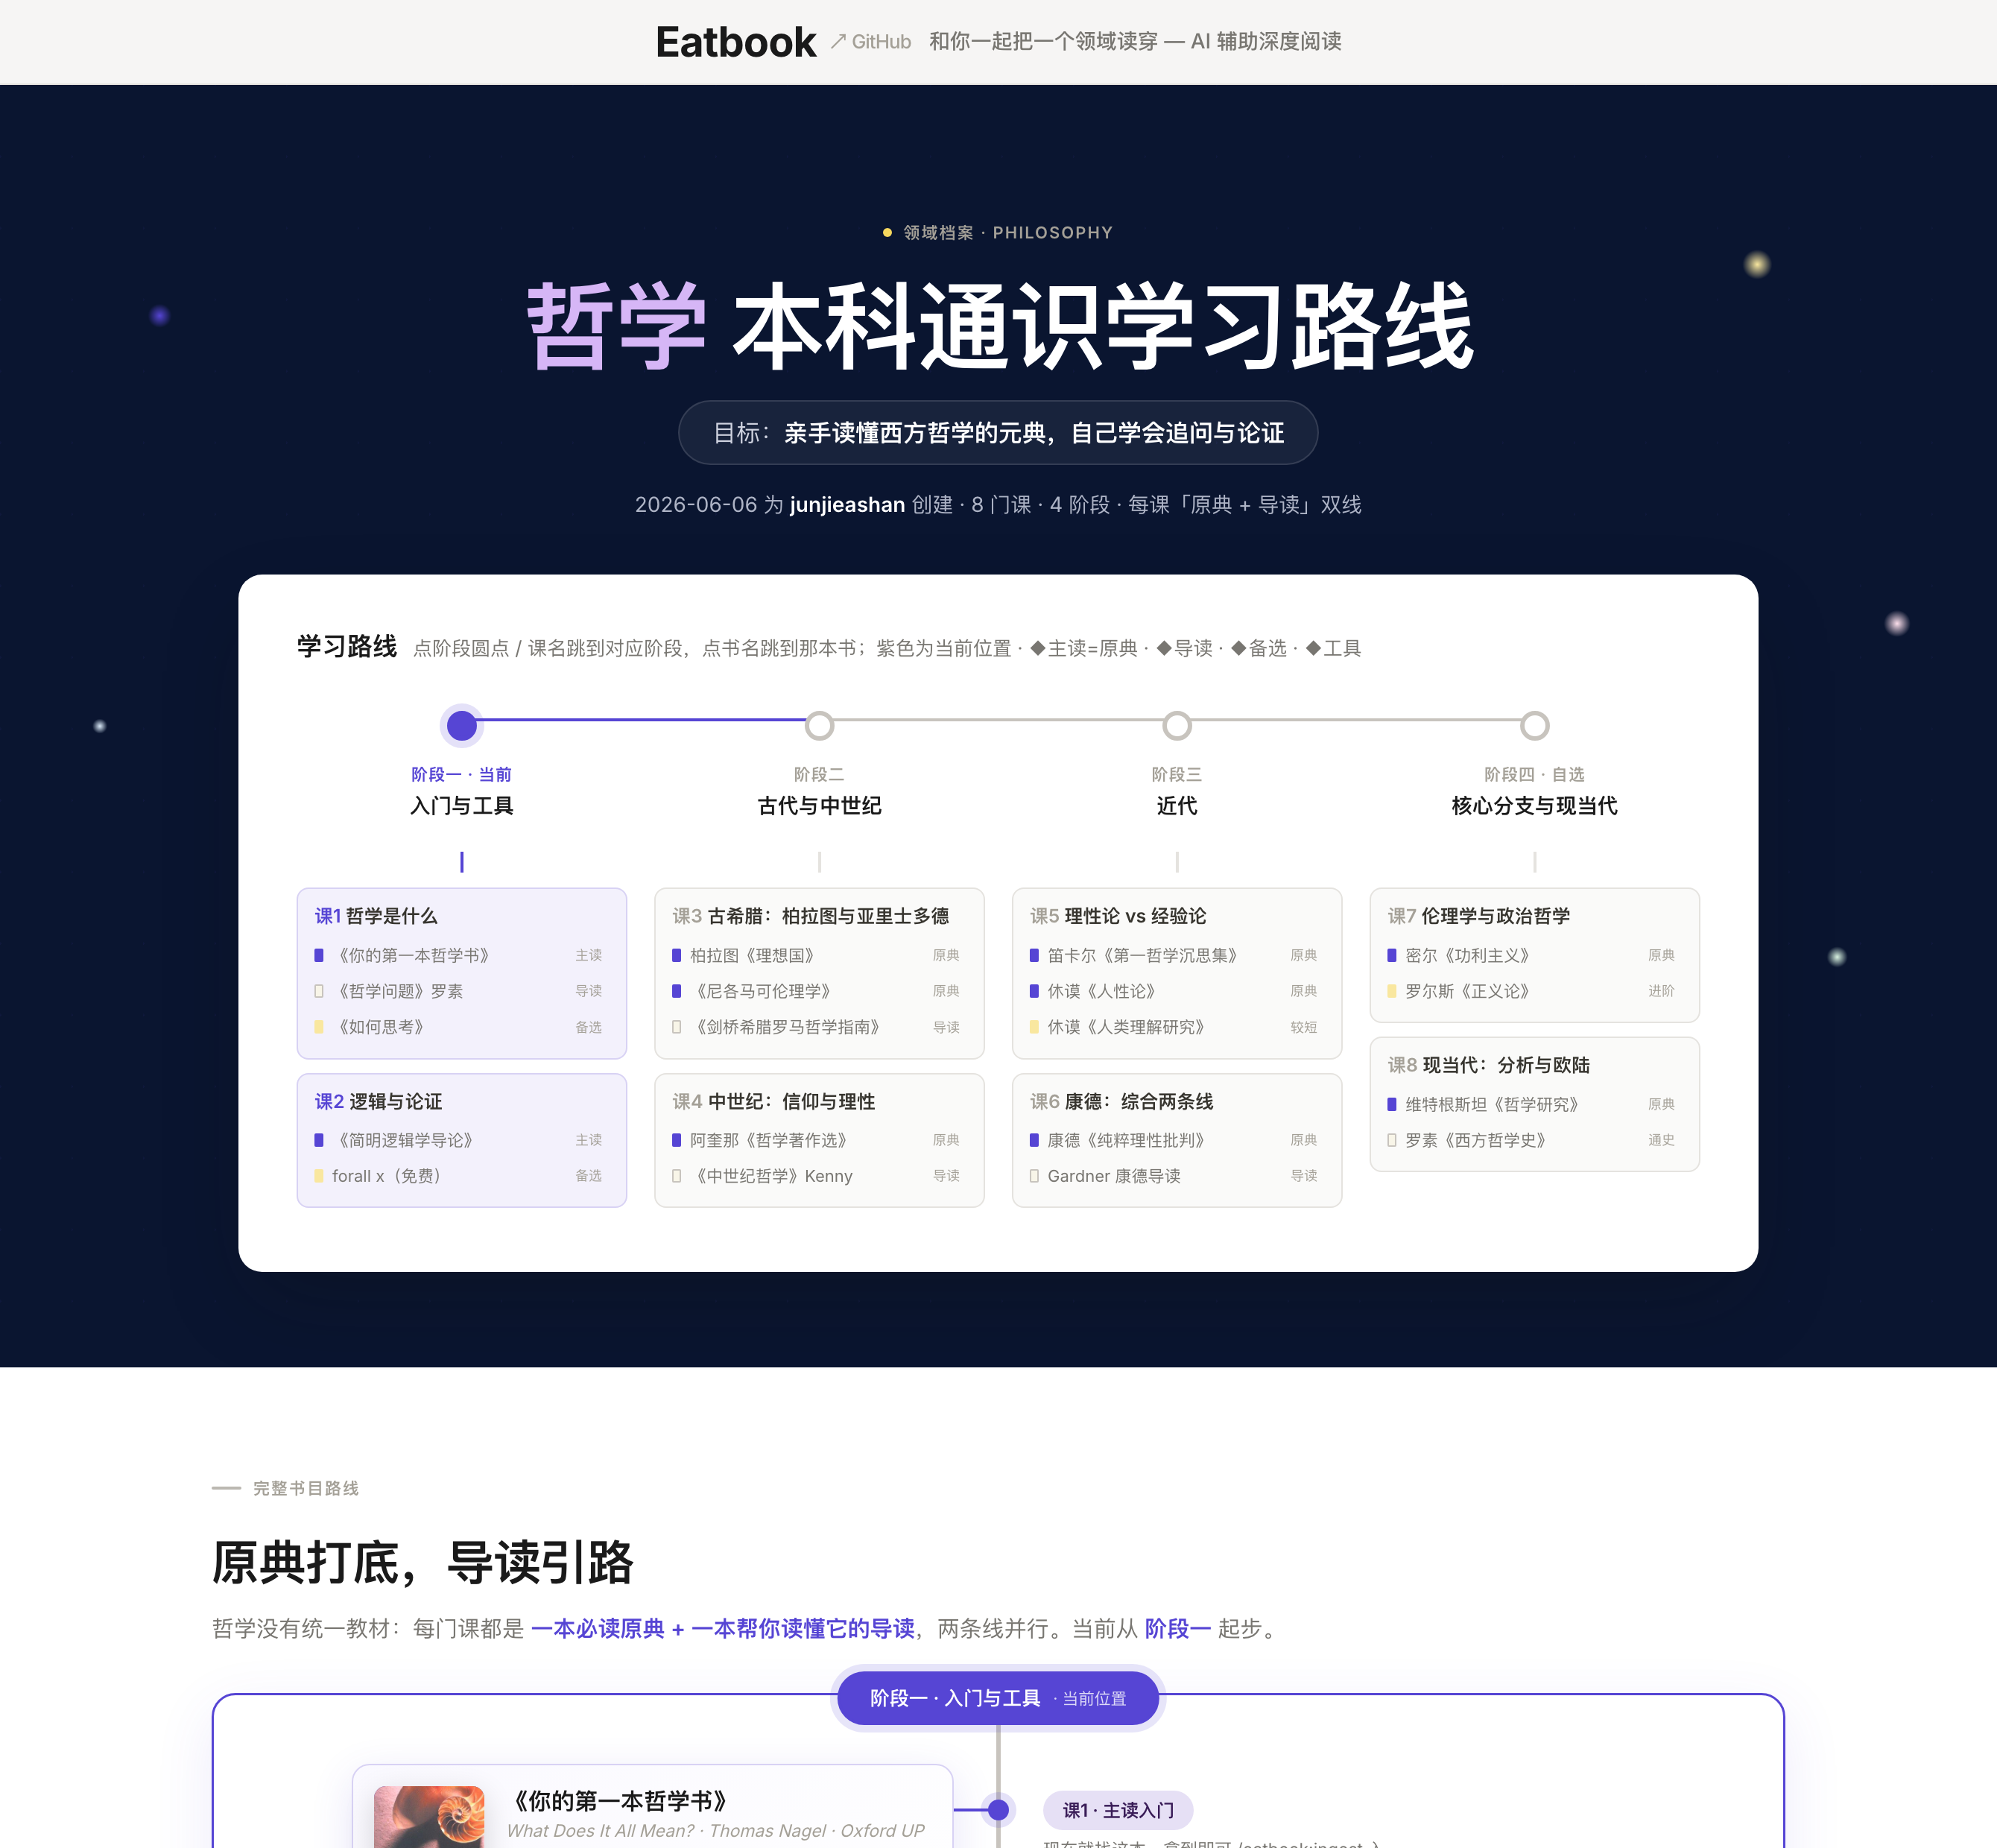
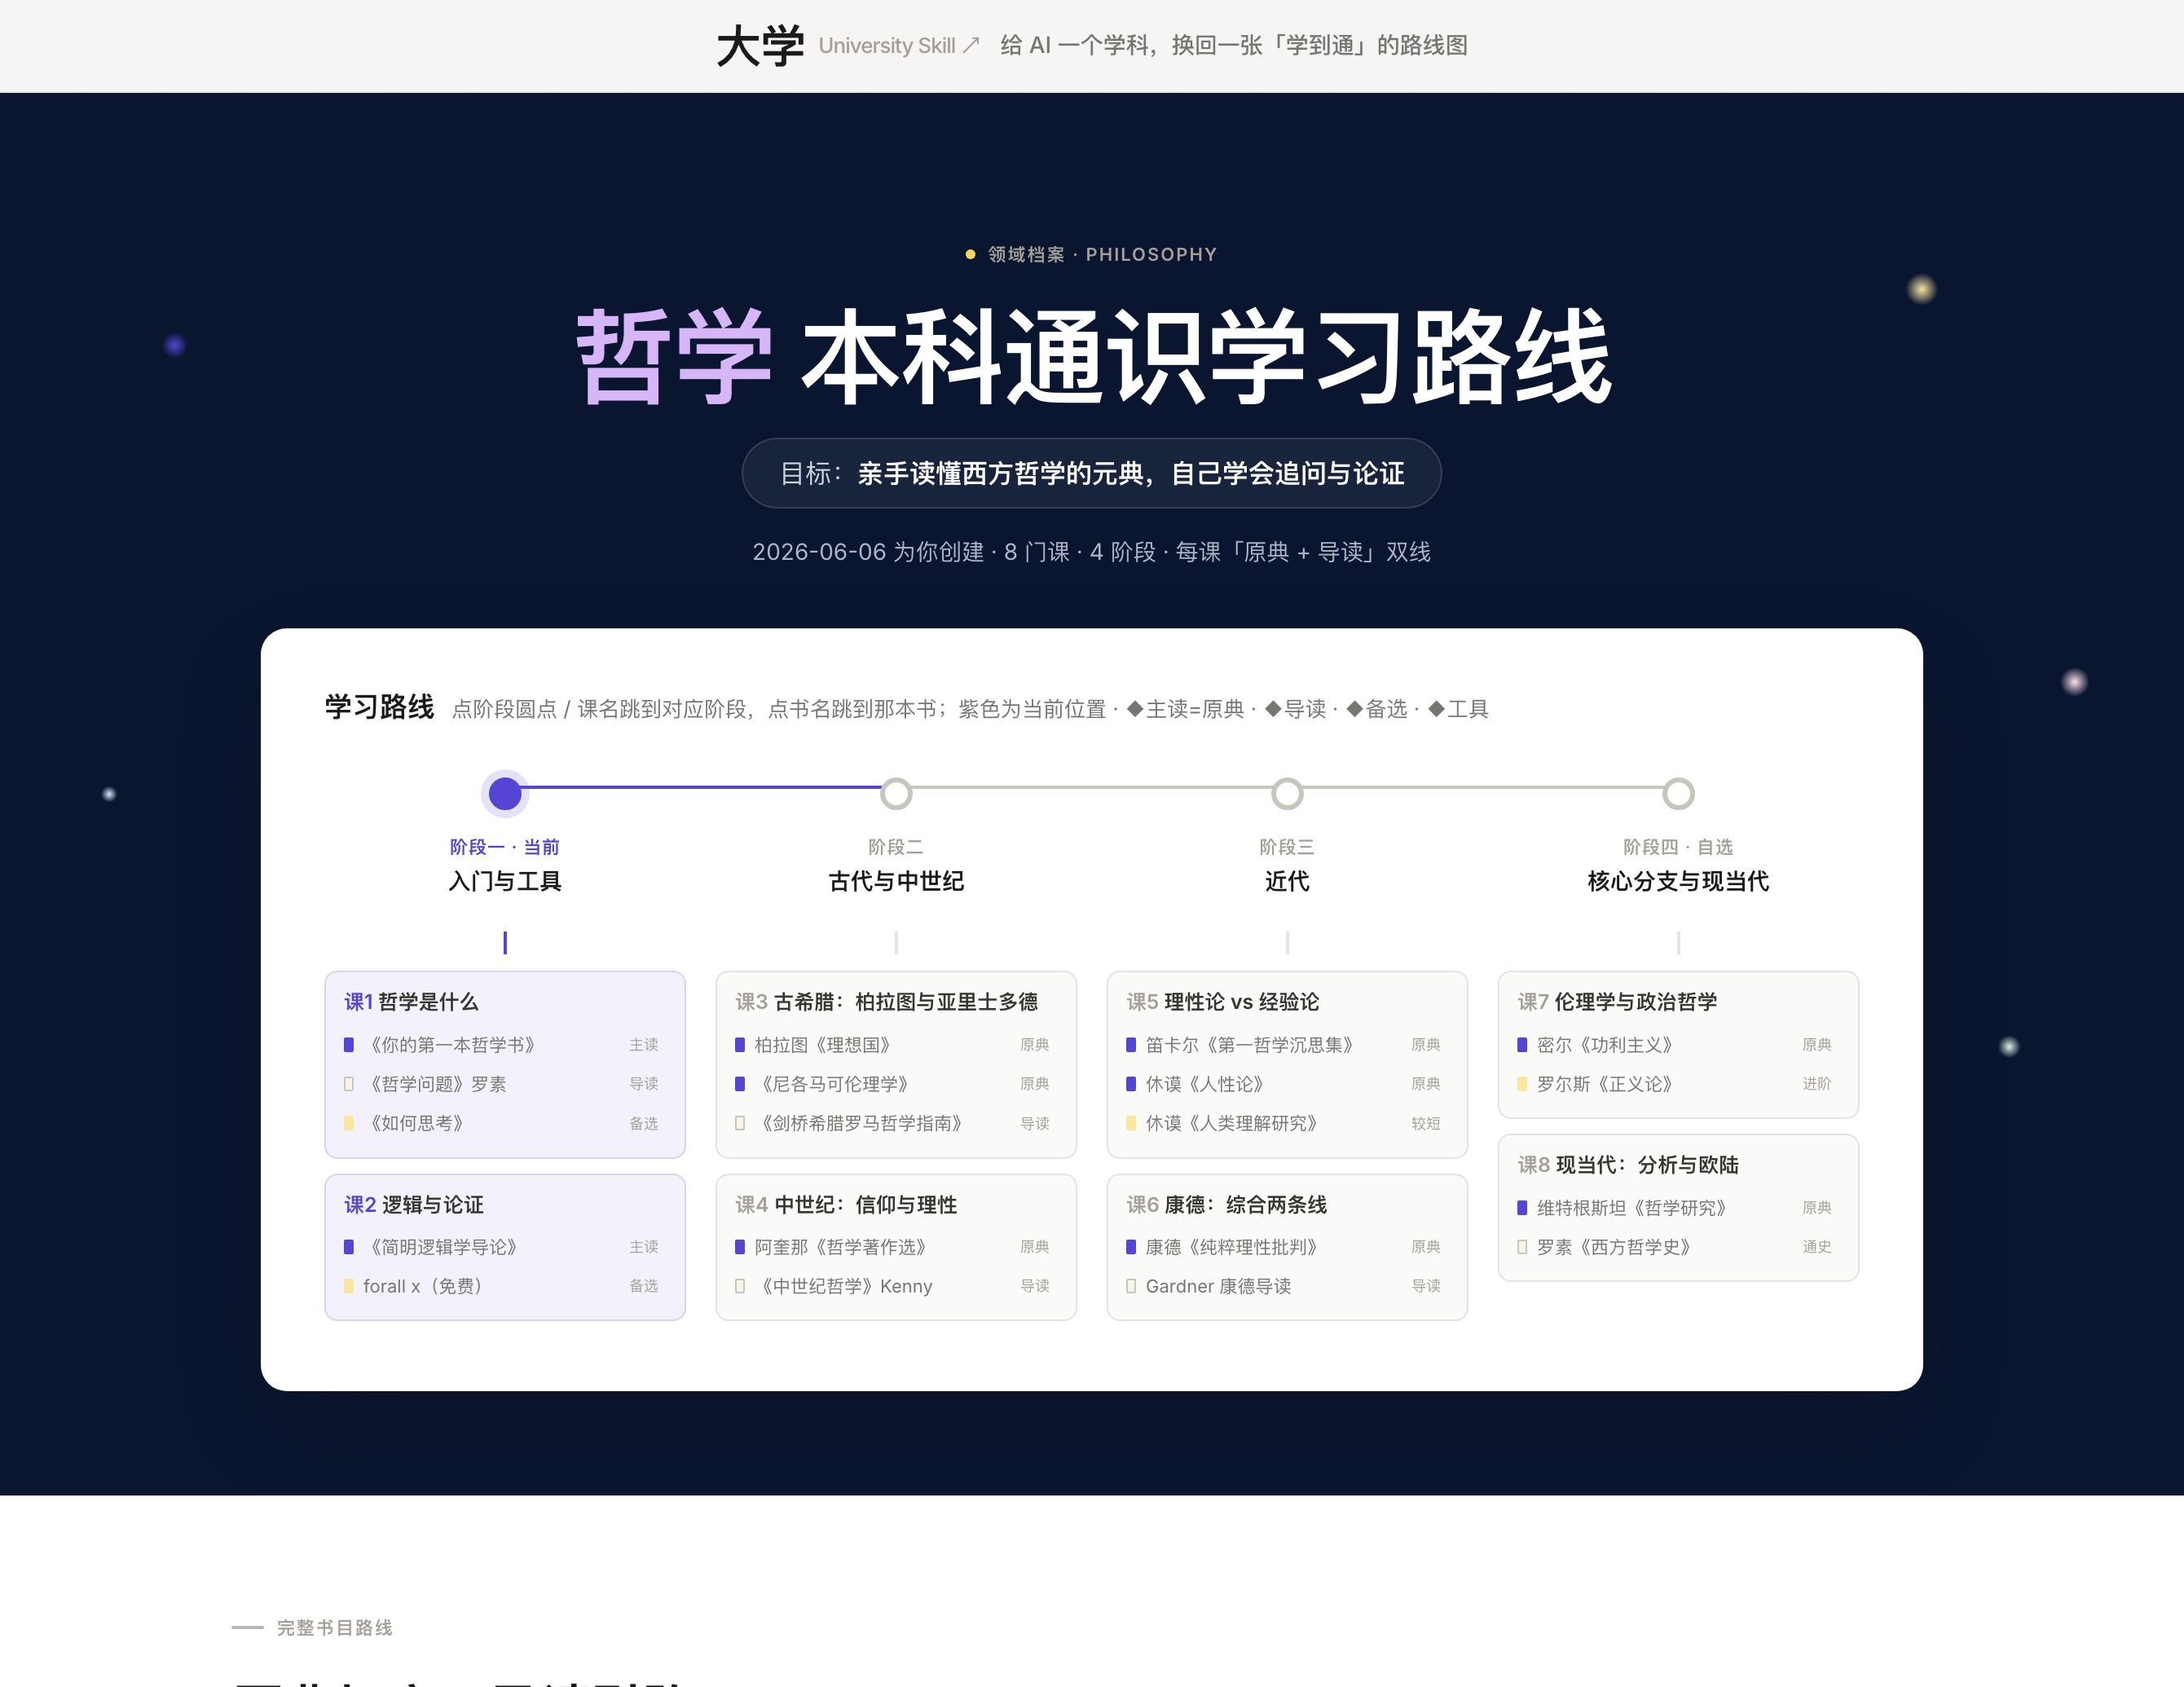
fix: demo/模板去 Eatbook 品牌→「大学 · University Skill」、署名改「为你创建」、重截路线图更聚焦

diff --git a/examples/philosophy.html b/examples/philosophy.html
@@ -271,8 +271,8 @@
 <body>
 
 <div class="promo-banner">
-  <a class="promo-brand" href="https://github.com/junjieashan" target="_blank" rel="noopener">Eatbook<span class="gh">↗ GitHub</span></a>
-  <span class="promo-rest">和你一起把一个领域读穿 — AI 辅助深度阅读</span>
+  <a class="promo-brand" href="https://github.com/junjieashan/university-skill" target="_blank" rel="noopener">大学<span class="gh">University Skill ↗</span></a>
+  <span class="promo-rest">给 AI 一个学科，换回一张「学到通」的路线图</span>
 </div>
 
 <!-- ══ 第一屏：HERO + 可点击节点路线图 ══ -->
@@ -281,7 +281,7 @@
     <div class="hero__eyebrow"><span class="hero__eyebrow-dot"></span>领域档案 · philosophy</div>
     <h1 class="hero__title"><em>哲学</em> 本科通识学习路线</h1>
     <div class="hero__goal">目标：<b>亲手读懂西方哲学的元典，自己学会追问与论证</b></div>
-    <div class="hero__meta">2026-06-06 为 <b>junjieashan</b> 创建 · 8 门课 · 4 阶段 · 每课「原典 + 导读」双线</div>
+    <div class="hero__meta">2026-06-06 为你创建 · 8 门课 · 4 阶段 · 每课「原典 + 导读」双线</div>
 
     <div class="routemap">
       <div class="routemap__cap"><h2>学习路线</h2><span>点阶段圆点 / 课名跳到对应阶段，点书名跳到那本书；紫色为当前位置 · ◆主读=原典 · ◆导读 · ◆备选 · ◆工具</span></div>

diff --git a/skills/university/references/template.html b/skills/university/references/template.html
@@ -271,8 +271,8 @@
 <body>
 
 <div class="promo-banner">
-  <a class="promo-brand" href="https://github.com/junjieashan" target="_blank" rel="noopener">Eatbook<span class="gh">↗ GitHub</span></a>
-  <span class="promo-rest">和你一起把一个领域读穿 — AI 辅助深度阅读</span>
+  <a class="promo-brand" href="https://github.com/junjieashan/university-skill" target="_blank" rel="noopener">大学<span class="gh">University Skill ↗</span></a>
+  <span class="promo-rest">给 AI 一个学科，换回一张「学到通」的路线图</span>
 </div>
 
 <!-- ══ 第一屏：HERO + 可点击节点路线图 ══ -->
@@ -281,7 +281,7 @@
     <div class="hero__eyebrow"><span class="hero__eyebrow-dot"></span>领域档案 · neuroscience</div>
     <h1 class="hero__title"><em>神经科学</em> 系统学习路线</h1>
     <div class="hero__goal">目标：<b>彻底搞懂脑与心智怎么运作</b></div>
-    <div class="hero__meta">2026-06-06 为 <b>junjieashan</b> 创建 · 9 门课 · 4 阶段</div>
+    <div class="hero__meta">2026-06-06 为你创建 · 9 门课 · 4 阶段</div>
 
     <div class="routemap">
       <div class="routemap__cap"><h2>学习路线</h2><span>点阶段圆点 / 课名跳到对应阶段，点书名跳到那本书；紫色为当前位置</span></div>